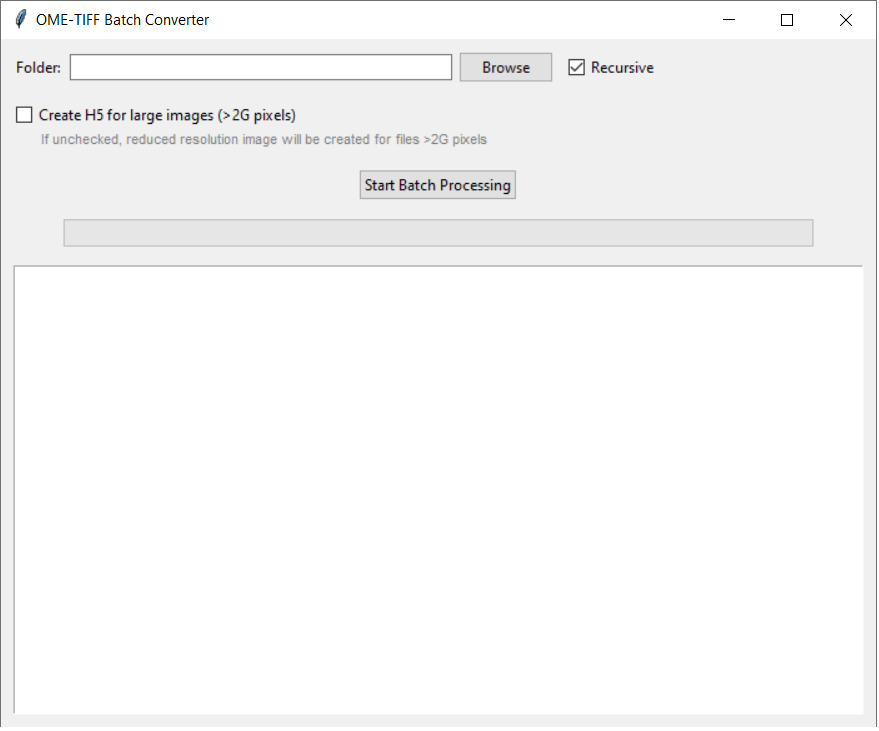
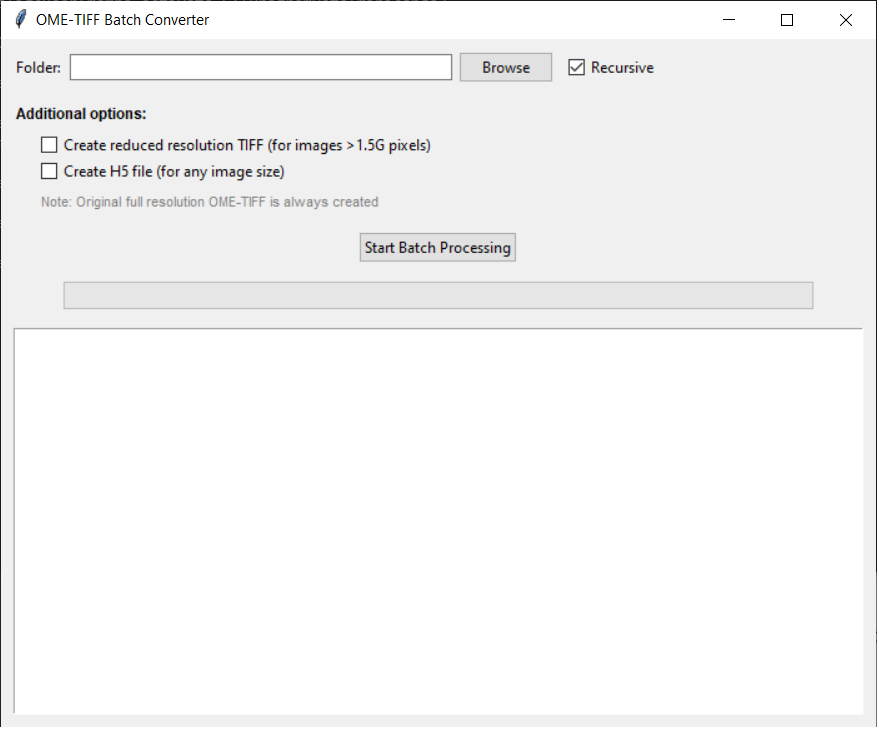
updates

Changed region(s): [[0.0, 0.1204, 0.9829, 0.4514], [0.9829, 0.0, 1.0, 0.0301]]

diff --git a/ome_tiff_batch_gui_v2.py b/ome_tiff_batch_gui_v2.py
@@ -308,7 +308,8 @@ class OMEBatchConverterGUI:
         self.root.geometry("700x550")
         self.folder_path = tk.StringVar()
         self.recursive = tk.BooleanVar(value=True)
-        self.create_h5 = tk.BooleanVar(value=False)  # New checkbox for H5 creation
+        self.create_h5 = tk.BooleanVar(value=False)  # Checkbox for H5 creation
+        self.create_reduced_tiff = tk.BooleanVar(value=False)  # New checkbox for reduced TIFF creation
         self.create_widgets()
 
     def create_widgets(self):
@@ -326,15 +327,23 @@ class OMEBatchConverterGUI:
         options_frame = ttk.Frame(self.root)
         options_frame.pack(fill=tk.X, padx=10, pady=5)
 
-        # H5 creation checkbox
-        ttk.Checkbutton(options_frame, text="Create H5 for large images (>2G pixels)", 
-                       variable=self.create_h5).pack(anchor=tk.W)
+        # Additional options label
+        ttk.Label(options_frame, text="Additional options:", 
+                 font=('TkDefaultFont', 9, 'bold')).pack(anchor=tk.W, pady=(0, 5))
+
+        # Reduced TIFF creation checkbox (for images >1.5G pixels)
+        ttk.Checkbutton(options_frame, text="Create reduced resolution TIFF (for images >1.5G pixels)", 
+                       variable=self.create_reduced_tiff).pack(anchor=tk.W, padx=20)
+        
+        # H5 creation checkbox (for any image size)
+        ttk.Checkbutton(options_frame, text="Create H5 file (for any image size)", 
+                       variable=self.create_h5).pack(anchor=tk.W, padx=20)
         
         # Informational text
         info_label = ttk.Label(options_frame, 
-                              text="If unchecked, reduced resolution image will be created for files >2G pixels",
+                              text="Note: Original full resolution OME-TIFF is always created",
                               font=('TkDefaultFont', 8), foreground='gray')
-        info_label.pack(anchor=tk.W, padx=20)
+        info_label.pack(anchor=tk.W, padx=20, pady=(5, 0))
 
         # Start button
         self.start_btn = ttk.Button(self.root, text="Start Batch Processing", command=self.start_processing)
@@ -415,14 +424,14 @@ class OMEBatchConverterGUI:
                 print(f"Error: Blended file {cblf} was not created")
                 return False
             
-            # Check image size for >2G pixels
+            # Check image size for different thresholds
             with mrcfile.open(cblf, permissive=True) as mrc:
                 image_data = mrc.data
                 if image_data.ndim == 3:
                     image_data = image_data[0]  # Use first slice if 3D
                 
                 total_pixels = image_data.shape[0] * image_data.shape[1]
-                is_large_image = total_pixels > 2_000_000_000
+                is_large_for_reduced = total_pixels > 1_500_000_000  # 1.5G pixels for reduced TIFF
             
             # Define output paths
             output_tiff = mrc_file.with_suffix('.ome.tif')
@@ -433,21 +442,21 @@ class OMEBatchConverterGUI:
             print(f"Creating original OME-TIFF: {output_tiff}")
             create_ome_bigtiff_pyramid(cblf, output_tiff, mag)
             
-            # Handle large images (>2G pixels)
-            if is_large_image:
-                print(f"Large image detected ({total_pixels:,} pixels > 2G)")
-                
-                if self.create_h5.get():
-                    # Create H5 file
-                    print(f"Creating HDF5: {output_h5}")
-                    create_hdf5_pyramid(cblf, output_h5, mag)
-                    print("H5 file created for large image")
-                else:
-                    # Create reduced resolution TIFF
-                    reduction_factor = calculate_reduction_factor(image_data.shape, 1_000_000_000)
-                    print(f"Creating reduced resolution TIFF with {reduction_factor}x reduction: {output_tiff_reduced}")
-                    create_ome_bigtiff_pyramid(cblf, output_tiff_reduced, mag, reduction_factor=reduction_factor)
-                    print("Reduced resolution TIFF created for large image")
+            # Create reduced resolution TIFF if checkbox is checked AND image > 1.5G pixels
+            if self.create_reduced_tiff.get() and is_large_for_reduced:
+                reduction_factor = calculate_reduction_factor(image_data.shape, 1_000_000_000)
+                print(f"Large image detected ({total_pixels:,} pixels > 1.5G)")
+                print(f"Creating reduced resolution TIFF with {reduction_factor}x reduction: {output_tiff_reduced}")
+                create_ome_bigtiff_pyramid(cblf, output_tiff_reduced, mag, reduction_factor=reduction_factor)
+                print("Reduced resolution TIFF created")
+            elif self.create_reduced_tiff.get() and not is_large_for_reduced:
+                print(f"Image size ({total_pixels:,} pixels) is below 1.5G threshold - no reduced TIFF created")
+            
+            # Create H5 file if checkbox is checked (independent of image size)
+            if self.create_h5.get():
+                print(f"Creating HDF5: {output_h5}")
+                create_hdf5_pyramid(cblf, output_h5, mag)
+                print("H5 file created")
             
             # === CLEANUP TEMPORARY FILES ===
             print("Cleaning temporary files...")
@@ -476,7 +485,8 @@ class OMEBatchConverterGUI:
         
         print(f"Starting batch processing in: {folder}")
         print(f"Recursive search: {self.recursive.get()}")
-        print(f"Create H5 for large images: {self.create_h5.get()}")
+        print(f"Create H5 files: {self.create_h5.get()}")
+        print(f"Create reduced TIFF for images >1.5G pixels: {self.create_reduced_tiff.get()}")
         
         # Find .mrc files
         mrc_files = self.find_mrc_files(folder, self.recursive.get())

diff --git a/README.md b/README.md
@@ -5,14 +5,15 @@ A GUI application for batch conversion of SerialEM montages (.mrc files) to OME-
 ## What it does
 
 This tool processes SerialEM montage files (.mrc + .mdoc) and converts them to:
-- **OME-TIFF files** with correct pixel size calibration and pyramidal structure
+- **OME-TIFF files** with correct pixel size calibration and pyramidal structure (always created)
 - **HDF5 files** (optional) for images >2G pixels, compatible with ImageJ BigDataViewer
-- **Reduced resolution TIFF files** (alternative to HDF5) for large images
+- **Reduced resolution TIFF files** (optional) for large images - can be created independently of HDF5
 
 The processing includes:
 1. Montage blending using IMOD tools (extractpieces + blendmont)
-2. Conversion to calibrated OME-TIFF with pyramid levels
-3. Optional HDF5 creation for large images or reduced resolution alternatives
+2. Conversion to calibrated OME-TIFF with pyramid levels (always created)
+3. Optional HDF5 creation for large images (>2G pixels)
+4. Optional reduced resolution TIFF creation for large images (independent of HDF5)
 
 ## Prerequisites
 
@@ -87,8 +88,10 @@ This will check:
 1. **Select Folder**: Choose folder containing .mrc files
 2. **Options**:
    - ✅ **Recursive**: Search subfolders for .mrc files
-   - ✅ **Create H5 for large images**: When checked, creates HDF5 files for images >2G pixels
-   - ❌ **Create H5 unchecked**: Creates reduced resolution TIFF instead
+   - **For large images (>2G pixels):**
+     - ✅ **Create H5 file**: Creates HDF5 files compatible with BigDataViewer
+     - ✅ **Create reduced resolution TIFF**: Creates downsampled TIFF files
+   - **Note**: Both options are independent - you can select none, one, or both
 
 3. **Processing**: Click "Start Batch Processing"
 
@@ -99,9 +102,15 @@ For each input file `image.mrc`, the tool creates:
 **Always created:**
 - `image.ome.tif` - Original resolution OME-TIFF with calibration
 
-**For large images (>2G pixels):**
-- `image.h5` + `image.xml` - HDF5 format for BigDataViewer (if H5 option checked)
-- `image_reduced.ome.tif` - Reduced resolution TIFF (if H5 option unchecked)
+**For large images (>2G pixels), optional files:**
+- `image.h5` + `image.xml` - HDF5 format for BigDataViewer (if "Create H5 file" is checked)
+- `image_reduced.ome.tif` - Reduced resolution TIFF (if "Create reduced resolution TIFF" is checked)
+
+**Note**: For large images, you can choose to create:
+- Only HDF5 files
+- Only reduced resolution TIFF
+- Both HDF5 and reduced TIFF
+- Neither (only original OME-TIFF)
 
 ### Opening Results
 
